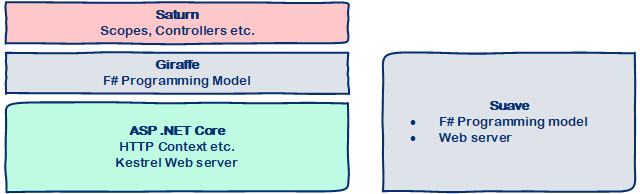
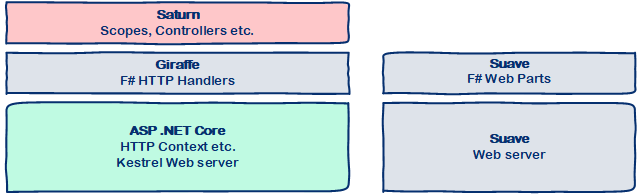
update server page.

diff --git a/docs/safe-server.md b/docs/safe-server.md
@@ -6,10 +6,22 @@ The [SAFE template](safe-template) comes with three alternative server technolog
 * **Giraffe** - A flexible F# framework for creating web-enabled applications. Giraffe runs on top of ASP .NET Core and the Kestrel server. Giraffe's programming model is itself based on Suave's programming model, but has some differences.
 * **Suave** - A flexible F# framework for creating web-enabled applications. Suave comes with its own built-in web server.
 
+## Comparing servers
+
+The diagram below illustrates some of the differences and similarities of the three stacks.
+
 ![](img/safe-server-1.png)
 
+ This is also shown in the table below. The core abstractions of Giraffe and Suave - the HTTP Handler and WebPart - are effectively the same thing. Saturn, which lives "on top" of Giraffe, provides a set of new, higher-level abstractions which delegate down to Giraffe's HTTP Handler.
+
+| | Saturn | Giraffe | Suave |
+|-|:-:|:-:|:-:|
+| ASP .NET compatible? | Yes | Yes | No |
+| F#-first | Yes | Yes | Yes |
+| Core Abstractions | scope { } and controller { } | HttpHandler | WebPart
+
 ## Why Saturn?
-** Saturn is the default, and recommended, web server in SAFE**.
+** Saturn is the default and recommended web server in SAFE**.
 
 Saturn (and Giraffe) runs on top of ASP .NET Core, which comes with an extremely high-performance server that is fully supported by Microsoft, has a huge community of developers and has excellent integration into cloud services such as Microsoft Azure and Amazon Web Services.
 
